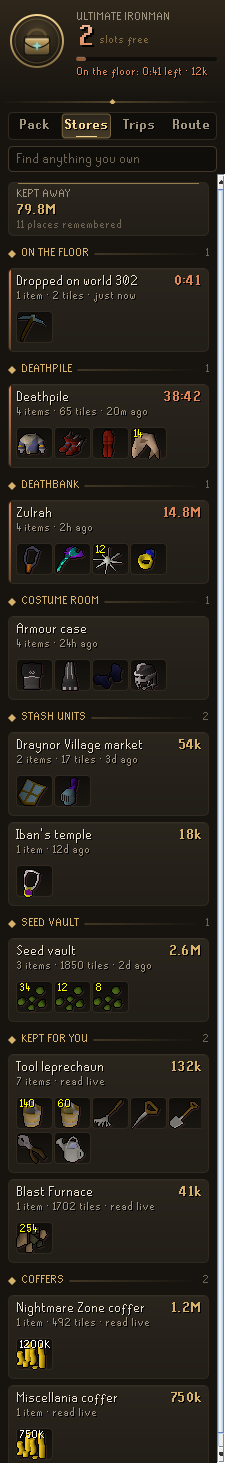
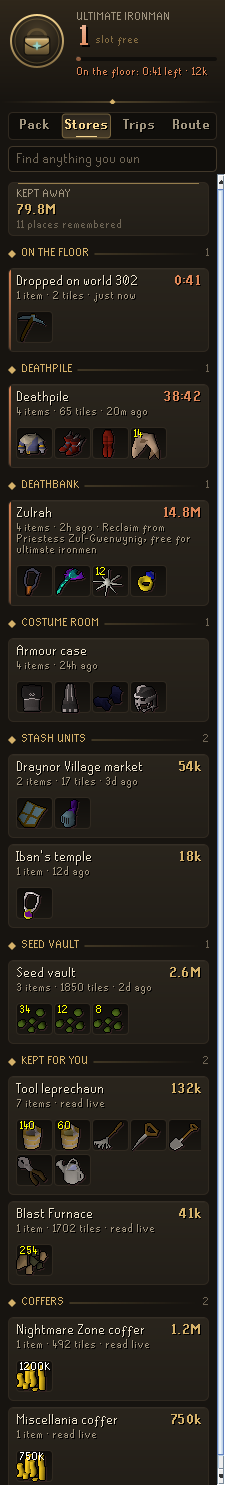
Show who holds the deathbank on its store card and the overlay

diff --git a/src/main/java/com/codex/nomad/core/Death.java b/src/main/java/com/codex/nomad/core/Death.java
@@ -22,6 +22,8 @@ public final class Death
 	private static final Map<String, String> CLAIMS = new HashMap<>();
 	/** The fee in coins, where it is paid in coins. */
 	private static final Map<String, Long> FEES = new HashMap<>();
+	/** The same in a few words, for tight places: "Torfinn, 100k". */
+	private static final Map<String, String> BRIEFS = new HashMap<>();
 
 	static
 	{
@@ -55,6 +57,15 @@ public final class Death
 		{
 			FEES.put(lair, fee);
 		}
+		String who2 = who.startsWith("the ") ? Character.toUpperCase(who.charAt(4)) + who.substring(5) : who;
+		BRIEFS.put(lair, who2.replaceAll(" (on|past|north of) .*", "") + ", "
+			+ (fee > 0 ? (fee >= 1000 ? fee / 1000 + "k" : String.valueOf(fee)) : fee == 0 ? "free" : note));
+	}
+
+	/** Who holds a lair's deathbank and the price, in a few words, or null. */
+	public static String brief(String lair)
+	{
+		return lair == null ? null : BRIEFS.get(lair);
 	}
 
 	/** How to get a lair's deathbank back: "Reclaim from Torfinn for 100k", or null. */

diff --git a/src/main/java/com/codex/nomad/ui/NomadPanel.java b/src/main/java/com/codex/nomad/ui/NomadPanel.java
@@ -1,5 +1,6 @@
 package com.codex.nomad.ui;
 
+import com.codex.nomad.core.Death;
 import com.codex.nomad.core.Kind;
 import java.awt.BorderLayout;
 import java.awt.CardLayout;
@@ -487,7 +488,8 @@ public class NomadPanel extends PluginPanel
 			: !s.exact ? "?" : s.worth > 0 ? Format.coins(s.worth) : "";
 		String sub = (s.exact ? s.items.size() + (s.items.size() == 1 ? " item" : " items") : "Estimated from your death")
 			+ (s.distance >= 0 ? " · " + s.distance + " tiles" : "")
-			+ (s.live ? " · read live" : s.seen > 0 ? " · " + Format.ago(view.now - s.seen) : "");
+			+ (s.live ? " · read live" : s.seen > 0 ? " · " + Format.ago(view.now - s.seen) : "")
+			+ (s.kind == Kind.DEATHBANK && Death.claim(s.name) != null ? " · " + Death.claim(s.name) : "");
 		card.add(new Row.Plain(s.name, figure, c == null ? Theme.GOLD : c, sub), BorderLayout.NORTH);
 		StackPanel in = new StackPanel(4, 0);
 		in.setBorder(new EmptyBorder(6, 0, 0, 0));

diff --git a/src/main/java/com/codex/nomad/CodexNomadPlugin.java b/src/main/java/com/codex/nomad/CodexNomadPlugin.java
@@ -1434,8 +1434,11 @@ public class CodexNomadPlugin extends Plugin
 				}
 				else if (p.kind == Kind.DEATHBANK)
 				{
+					Store bank = nomad.deathbank();
+					String brief = bank == null ? null : Death.brief(bank.name);
 					rows.add(new Plaque.Row(p.title, p.exact ? Format.coins(p.worth) : "?",
-						wild ? "You are in the Wilderness: dying here wipes it" : "Any unsafe death wipes it", wild ? Theme.BLOOD : Theme.EMBER));
+						wild ? "You are in the Wilderness: dying here wipes it" : brief != null ? "Reclaim: " + brief : "Any unsafe death wipes it",
+						wild ? Theme.BLOOD : Theme.EMBER));
 					tint = wild ? Theme.BLOOD : Theme.EMBER;
 				}
 			}

diff --git a/src/test/java/com/codex/nomad/core/CoreTest.java b/src/test/java/com/codex/nomad/core/CoreTest.java
@@ -38,6 +38,10 @@ public class CoreTest
 		assertEquals(0L, Death.fee("Zulrah"));
 		assertEquals(-1L, Death.fee("Volcanic Mine"));
 		assertNull(Death.claim("an instance"));
+		assertEquals("Torfinn, 100k", Death.brief("Vorkath"));
+		assertEquals("Priestess Zul-Gwenwynig, free", Death.brief("Zulrah"));
+		assertEquals("Magical chest, 50k", Death.brief("Grotesque Guardians"));
+		assertEquals("Petrified Pete, 150 numulite", Death.brief("Volcanic Mine"));
 	}
 
 	@Test
